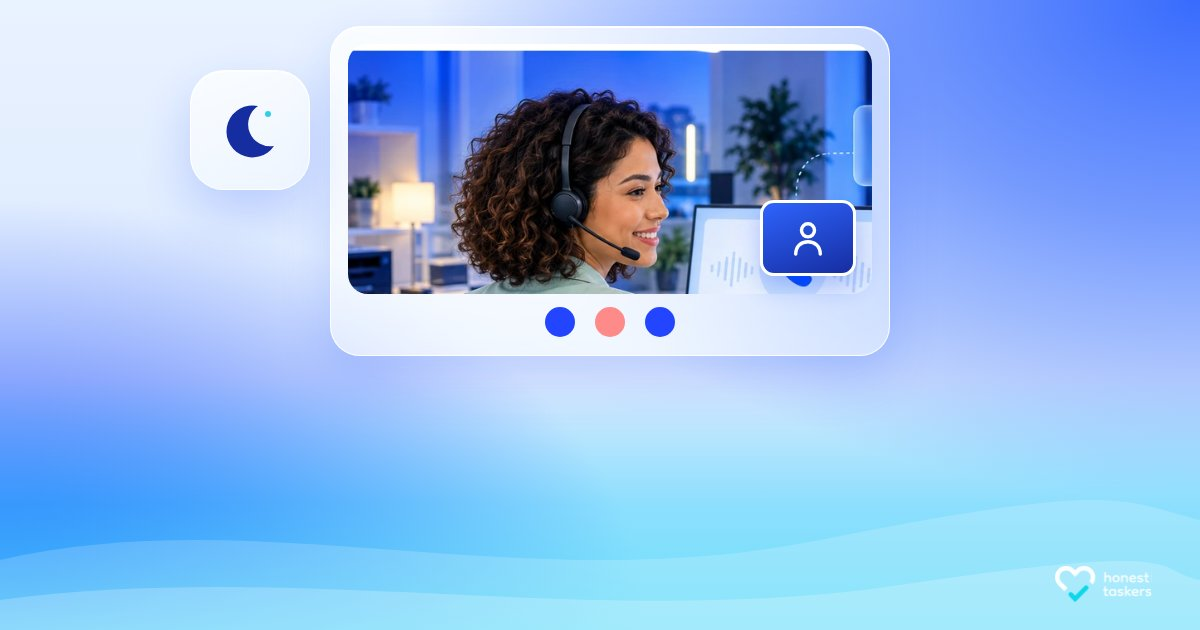
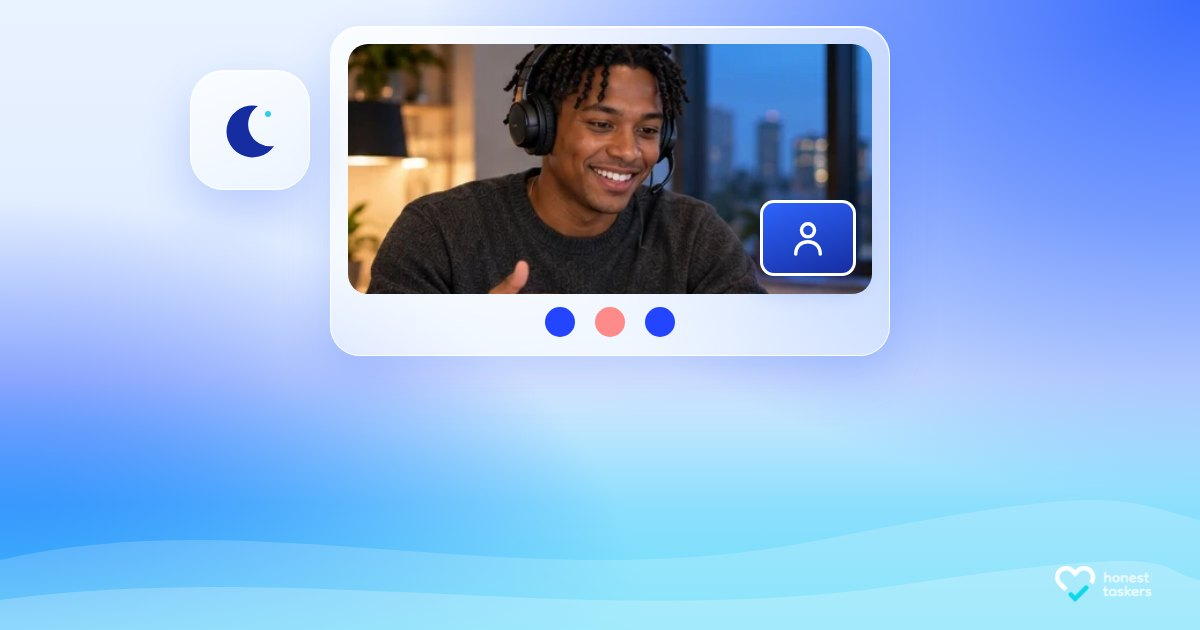
v8: 10 people covers with ChatGPT photos (5 young women, 5 young men, different races)
Claude-Session: https://claude.ai/code/session_01AHsVWFWnB54Ytwp6awPeMf

Changed region(s): [[0.2775, 0.0603, 0.74, 0.4825]]

diff --git a/blog-image-research/v8/templates/scenes-photo.js b/blog-image-research/v8/templates/scenes-photo.js
@@ -1,62 +1,63 @@
 // v8 photo scenes p01-p10: a real person in every cover, each with a different layout, on the shared v7 gradient + glass.
-// Photos here are STAND-INS from the current covers; swap the file names when the new, diverse people are generated.
+// People: young women and men of different races, generated in ChatGPT from PEOPLE-PROMPTS.md (cut from one collage).
+// Each person is placed in the layout that suits their photo's size and shape (wide shots full-bleed, tall shots in arch/phone).
 (() => {
 const S = window.SCENES;
-window.PHOTO_AR = { 'p01-dental': 1536 / 1024 };  // new 3:2 photos
+// [file, face focal [x%, y%], width, height]
 const F = {
-  dental: ['p01-dental', [46, 29]],
-  vet: ['7-best-virtual-medical-assistant-companies-for-specialty-veterinary-hospitals', [58, 20]],
-  internal: ['how-to-hire-an-internal-medicine-virtual-medical-assistant', [43, 25]],
-  afterhours: ['9-best-after-hours-medical-answering-service-companies', [30, 22]],
-  vetbill: ['veterinary-billing-virtual-assistant-interview-questions', [52, 22]],
-  answering: ['medical-answering-service-outsourcing-services', [43, 22]],
-  multi: ['in-house-staff-vs-virtual-team-for-multi-specialty-medical-groups-key-differences-and-which-to-choose', [55, 25]],
-  transcription: ['7-best-medical-transcription-outsourcing-companies', [73, 22]],
-  ortho: ['how-much-does-an-orthopedics-vma-cost', [70, 25]],
-  scribe: ['virtual-medical-scribe-vs-in-house-staff', [40, 28]],
+  ortho: ['p09-ortho', [56, 27], 264, 350],
+  internal: ['p03-internal', [41, 36], 507, 335],
+  vet: ['p02-vet', [55, 35], 762, 330],
+  afterhours: ['p04-afterhours', [47, 40], 520, 335],
+  vetbill: ['p05-vetbilling', [51, 29], 500, 335],
+  answering: ['p06-answering', [49, 33], 338, 350],
+  multi: ['p07-multi', [47, 27], 297, 350],
+  transcription: ['p08-transcription', [55, 27], 317, 350],
+  dental: ['p01-dental', [51, 39], 768, 330],
+  scribe: ['p10-scribe', [48, 29], 288, 350],
 };
+window.PHOTO_AR = Object.fromEntries(Object.values(F).map(([f, , w, h]) => [f, w / h]));
 const shadow = '0 26px 60px rgba(19,68,253,.28), 0 2px 8px rgba(19,68,253,.12)';
 
 // p01 Arch window: the person framed in a tall arch, specialty tiles stepping down beside it.
-S.p01 = { title: 'What Skills Does a Virtual Dental Assistant Need?', style: 'Arch window', draw({ photo, tile, svg }) {
+S.p01 = { title: 'How Much Does an Orthopedics VMA Cost?', style: 'Arch window', draw({ photo, tile, svg }) {
   svg(`<path d="M600 430 V170 A170 170 0 0 1 940 170 V430Z" fill="url(#gGhost)" transform="translate(30,-20)"/>`);
-  photo(F.dental[0], F.dental[1], 610, 24, 320, 400, 165, 150, 1.25, '160px 160px 28px 28px', { boxShadow: shadow, border: '6px solid rgba(255,255,255,.9)' });
-  tile('tooth', 470, 90, 120); tile('calendar', 380, 220, 104); tile('phone', 510, 300, 88);
+  photo(F.ortho[0], F.ortho[1], 610, 24, 320, 400, 160, 120, 1.05, '160px 160px 28px 28px', { boxShadow: shadow, border: '6px solid rgba(255,255,255,.9)' });
+  tile('spine', 470, 90, 120); tile('calendar', 380, 220, 104); tile('coin', 510, 300, 88);
 } };
 
-// p02 Circle portrait on an orbit: the person at the centre, the day's work orbiting.
-S.p02 = { title: '7 Best Virtual Medical Assistant Companies for Specialty Veterinary Hospitals', style: 'Orbit portrait', draw({ photo, tile, svg }) {
+// p02 Circle portrait on an orbit: the person at the centre, the work orbiting.
+S.p02 = { title: 'How to Hire an Internal Medicine Virtual Medical Assistant', style: 'Orbit portrait', draw({ photo, tile, svg }) {
   svg(`<ellipse cx="600" cy="190" rx="300" ry="150" fill="none" stroke="#fff" stroke-width="2" stroke-dasharray="4 10" opacity=".8"/>
        <ellipse cx="600" cy="190" rx="230" ry="200" fill="none" stroke="#fff" stroke-width="1.5" opacity=".35"/>`);
-  photo(F.vet[0], F.vet[1], 455, 45, 290, 290, 145, 115, 2.4, '50%', { boxShadow: shadow, border: '8px solid #fff' });
-  tile('paw', 320, 120, 110); tile('calendar', 880, 110, 96); tile('heart', 860, 290, 84); tile('rx', 345, 300, 80);
+  photo(F.internal[0], F.internal[1], 455, 45, 290, 290, 145, 130, 1.6, '50%', { boxShadow: shadow, border: '8px solid #fff' });
+  tile('stethoscope', 320, 120, 110); tile('calendar', 880, 110, 96); tile('heart', 860, 290, 84); tile('rx', 345, 300, 80);
 } };
 
 // p03 Your current look, kept: full-bleed person with see-through blue edges and frosted tiles (no checkmark).
-S.p03 = { title: 'How to Hire an Internal Medicine Virtual Medical Assistant', style: 'Current look, refined', bg: { waves: false }, draw({ photo, add, tile }) {
-  photo(F.internal[0], F.internal[1], 0, 0, 1200, 630, 520, 160, 1.55);
-  add('abs', { inset: 0, background: 'linear-gradient(90deg, rgba(19,68,253,.55) 0%, rgba(46,100,253,.15) 30%, rgba(46,100,253,0) 55%, rgba(46,100,253,.35) 80%, rgba(19,68,253,.7) 100%)' });
-  add('abs', { inset: 0, background: 'linear-gradient(0deg, rgba(85,224,250,.7) 0%, rgba(2,208,253,0) 35%)' });
-  tile('stethoscope', 860, 90, 112); tile('heart', 980, 230, 92); tile('calendar', 240, 120, 100);
+S.p03 = { title: '7 Best Virtual Medical Assistant Companies for Specialty Veterinary Hospitals', style: 'Current look, refined', bg: { waves: false }, draw({ photo, add, tile }) {
+  photo(F.vet[0], F.vet[1], 0, 0, 1200, 630, 700, 175, 1.15);
+  add('abs', { inset: 0, background: 'linear-gradient(90deg, rgba(19,68,253,.6) 0%, rgba(46,100,253,.2) 22%, rgba(46,100,253,0) 45%, rgba(46,100,253,0) 75%, rgba(19,68,253,.55) 100%)' });
+  add('abs', { inset: 0, background: 'linear-gradient(0deg, rgba(85,224,250,.75) 0%, rgba(2,208,253,0) 38%)' });
+  tile('paw', 220, 110, 108); tile('calendar', 1000, 100, 96); tile('heart', 980, 250, 84);
 } };
 
 // p04 Video call: the person inside a frosted call window, a moon tile for after hours.
 S.p04 = { title: '9 Best After-Hours Medical Answering Service Companies', style: 'Call window', draw({ glass, photo, svg, ico, add }) {
   glass(330, 26, 560, 330, 30);
-  photo(F.afterhours[0], F.afterhours[1], 348, 44, 524, 250, 262, 115, 1.9, 20);
+  photo(F.afterhours[0], F.afterhours[1], 348, 44, 524, 250, 262, 110, 1.15, 20);
   add('abs', { left: 760, top: 200, width: 96, height: 76, borderRadius: 14, background: 'linear-gradient(160deg,#2e64fd,#162da1)', border: '3px solid #fff', boxShadow: '0 10px 24px rgba(19,68,253,.3)' },
     `<div style="display:flex;align-items:center;justify-content:center;height:100%">${ico('person', 46, 9, '#fff', '#2dd0e8')}</div>`);
   svg(`${[0, 1, 2].map(i => `<circle cx="${560 + i * 50}" cy="322" r="15" fill="${i === 1 ? '#ff8a8a' : '#2345ff'}"/>`).join('')}`);
   glass(190, 70, 120, 120, 34, {}, `<svg width="64" height="64" viewBox="0 0 64 64"><path d="M40 8a26 26 0 1 0 16 40A22 22 0 0 1 40 8z" fill="#162da1"/><circle cx="50" cy="16" r="3" fill="#2dd0e8"/></svg>`);
 } };
 
-// p05 Polaroid: an instant photo pinned at an angle, with a billing note card under it.
-S.p05 = { title: 'Veterinary Billing Virtual Assistant Interview Questions', style: 'Polaroid', draw({ add, photo, glass, ico, svg }) {
-  const f = add('solid', { left: 400, top: 24, width: 320, height: 360, borderRadius: 10, transform: 'rotate(-5deg)', padding: 0 });
-  photo(F.vetbill[0], F.vetbill[1], 18, 18, 284, 262, 142, 105, 2.3, 4, {}).remove();
-  const p = document.createElement('div'); p.className = 'panel'; Object.assign(p.style, { left: '18px', top: '18px', width: '284px', height: '262px', borderRadius: '4px' }); f.appendChild(p);
-  const k = Math.max(284 / 1200, 262 / 630) * 2.3, iw = 1200 * k, ih = 630 * k; let l = 142 - .52 * iw, t = 100 - .22 * ih; l = Math.min(0, Math.max(284 - iw, l)); t = Math.min(0, Math.max(262 - ih, t));
-  p.innerHTML = `<img src="../photos/${F.vetbill[0]}.webp" style="position:absolute;width:${iw}px;height:${ih}px;left:${l}px;top:${t}px">`;
+// p05 Polaroid: an instant photo pinned at an angle, with a billing note card beside it.
+S.p05 = { title: 'Veterinary Billing Virtual Assistant Interview Questions', style: 'Polaroid', draw({ add, glass, ico }) {
+  const f = add('solid', { left: 400, top: 24, width: 320, height: 360, borderRadius: 10, transform: 'rotate(-5deg)' });
+  const [src, fc, w0, h0] = F.vetbill, w = 284, h = 262, k = Math.max(w / w0, h / h0) * 1.1, iw = w0 * k, ih = h0 * k;
+  let l = w / 2 - fc[0] / 100 * iw, t = 100 - fc[1] / 100 * ih; l = Math.min(0, Math.max(w - iw, l)); t = Math.min(0, Math.max(h - ih, t));
+  add('panel', { left: 18, top: 18, width: w, height: h, borderRadius: 4 }, `<img src="../photos/${src}.webp" style="position:absolute;width:${iw}px;height:${ih}px;left:${l}px;top:${t}px">`, f);
   add('abs', { left: 520, top: 8, width: 110, height: 32, background: 'rgba(169,210,247,.75)', transform: 'rotate(-8deg)', borderRadius: 4 });
   glass(740, 120, 230, 170, 26, { transform: 'rotate(4deg)' }, `<div>${ico('paw', 56, 9)}<div style="height:10px;width:130px;border-radius:5px;background:#2345ff;margin:14px 0 8px;opacity:.85"></div><div style="height:10px;width:90px;border-radius:5px;background:#2dd0e8"></div></div>`);
 } };
@@ -64,43 +65,43 @@ S.p05 = { title: 'Veterinary Billing Virtual Assistant Interview Questions', sty
 // p06 Phone screen: the person answering on a phone, with ringing arcs.
 S.p06 = { title: 'Medical Answering Service Outsourcing Services', style: 'Phone screen', draw({ add, photo, svg, tile }) {
   add('abs', { left: 485, top: 18, width: 230, height: 450, borderRadius: 40, background: '#0b1440', boxShadow: '0 30px 70px rgba(19,68,253,.35)' });
-  photo(F.answering[0], F.answering[1], 497, 30, 206, 426, 103, 120, 2.6, 30);
+  photo(F.answering[0], F.answering[1], 497, 30, 206, 426, 103, 150, 1.0, 30);
   add('abs', { left: 565, top: 40, width: 70, height: 18, borderRadius: 9, background: '#0b1440' });
-  svg(`${[60, 95, 130].map((r, i) => `<path d="M${730 + 10} ${170 - r} A ${r} ${r} 0 0 1 ${740} ${170 + r}" fill="none" stroke="#fff" stroke-width="5" stroke-linecap="round" opacity="${.85 - i * .25}" transform="translate(${r * .2},0)"/>`).join('')}
-       ${[60, 95, 130].map((r, i) => `<path d="M${460} ${170 - r} A ${r} ${r} 0 0 0 ${460} ${170 + r}" fill="none" stroke="#fff" stroke-width="5" stroke-linecap="round" opacity="${.85 - i * .25}" transform="translate(${-r * .2},0)"/>`).join('')}`);
+  svg(`${[60, 95, 130].map((r, i) => `<path d="M740 ${170 - r} A ${r} ${r} 0 0 1 740 ${170 + r}" fill="none" stroke="#fff" stroke-width="5" stroke-linecap="round" opacity="${.85 - i * .25}" transform="translate(${r * .2},0)"/>`).join('')}
+       ${[60, 95, 130].map((r, i) => `<path d="M460 ${170 - r} A ${r} ${r} 0 0 0 460 ${170 + r}" fill="none" stroke="#fff" stroke-width="5" stroke-linecap="round" opacity="${.85 - i * .25}" transform="translate(${-r * .2},0)"/>`).join('')}`);
   tile('phone', 260, 130, 110); tile('headset', 950, 150, 110);
 } };
 
-// p07 Diagonal split: photo cut on a slant at left, capsule bars and two tiles on the right.
-S.p07 = { title: 'In-House Staff vs. Virtual Team for Multi-Specialty Medical Groups: Key Differences and Which to Choose', style: 'Diagonal split', bg: { waves: true }, draw({ photo, capsules, tile }) {
-  photo(F.multi[0], F.multi[1], 0, 0, 700, 630, 390, 170, 1.5, 0, { clipPath: 'polygon(0 0, 100% 0, 72% 100%, 0 100%)' });
-  capsules(720, 70, 6, 40, 240, 16, [.45, .7, .55, .9, .75, 1]);
-  tile('clinic', 820, 120, 100); tile('people', 980, 250, 100);
+// p07 Slanted panel: the person in a tilted frame on the left, capsule bars and two tiles on the right.
+S.p07 = { title: 'In-House Staff vs. Virtual Team for Multi-Specialty Medical Groups: Key Differences and Which to Choose', style: 'Slanted panel', draw({ photo, capsules, tile }) {
+  photo(F.multi[0], F.multi[1], 250, 20, 400, 380, 200, 120, 1.0, 26, { clipPath: 'polygon(0 0, 100% 0, 82% 100%, 0 100%)', boxShadow: shadow });
+  capsules(650, 70, 6, 40, 240, 16, [.45, .7, .55, .9, .75, 1]);
+  tile('clinic', 760, 120, 100); tile('people', 930, 250, 100);
 } };
 
 // p08 Organic blob mask: the person in a soft blob, a frosted transcript turning sound into lines.
 S.p08 = { title: '7 Best Medical Transcription Outsourcing Companies', style: 'Blob portrait', draw({ photo, glass, svg }) {
-  photo(F.transcription[0], F.transcription[1], 620, 10, 420, 380, 210, 140, 2, 0,
-    { clipPath: 'path("M210 8 C 320 0, 410 70, 414 170 C 418 270, 350 372, 220 376 C 100 380, 10 310, 6 200 C 2 90, 100 16, 210 8 Z")' });
+  photo(F.transcription[0], F.transcription[1], 640, 10, 400, 380, 200, 140, 1.0, 0,
+    { clipPath: 'path("M200 8 C 305 0, 392 70, 396 170 C 400 270, 335 372, 210 376 C 95 380, 10 310, 6 200 C 2 90, 95 16, 200 8 Z")' });
   glass(210, 60, 380, 250, 28);
   svg(`${Array.from({ length: 22 }, (_, i) => { const h = 14 + 56 * Math.abs(Math.sin(i * .7)); return `<rect x="${240 + i * 9}" y="${120 - h / 2}" width="5" height="${h}" rx="2.5" fill="#2345ff" opacity=".85"/>`; }).join('')}
        <path d="M450 120 h40 M480 108 l12 12 -12 12" stroke="#2dd0e8" stroke-width="5" fill="none" stroke-linecap="round"/>
-       ${[0, 1, 2, 3].map(i => `<rect x="${240}" y="${190 + i * 26}" width="${[300, 260, 280, 180][i]}" height="10" rx="5" fill="${i === 3 ? '#2dd0e8' : '#0b1440'}" opacity="${i === 3 ? 1 : .75}"/>`).join('')}`);
+       ${[0, 1, 2, 3].map(i => `<rect x="240" y="${190 + i * 26}" width="${[300, 260, 280, 180][i]}" height="10" rx="5" fill="${i === 3 ? '#2dd0e8' : '#0b1440'}" opacity="${i === 3 ? 1 : .75}"/>`).join('')}`);
 } };
 
-// p09 Blue duotone: the whole photo toned into brand blue, one solid white tile on top.
-S.p09 = { title: 'How Much Does an Orthopedics VMA Cost?', style: 'Duotone', bg: { waves: false }, draw({ photo, add, solid, ico, svg }) {
-  photo(F.ortho[0], F.ortho[1], 0, 0, 1200, 630, 760, 160, 1.6, 0, { filter: 'grayscale(1) contrast(1.1) brightness(1.05)' });
+// p09 Blue duotone: the whole photo toned into brand blue, solid white tiles on top.
+S.p09 = { title: 'What Skills Does a Virtual Dental Assistant Need?', style: 'Duotone', bg: { waves: false }, draw({ photo, add, solid, ico }) {
+  photo(F.dental[0], F.dental[1], 0, 0, 1200, 630, 760, 200, 1.0, 0, { filter: 'grayscale(1) contrast(1.1) brightness(1.08)' });
   add('abs', { inset: 0, background: 'linear-gradient(115deg, rgba(19,68,253,.92) 0%, rgba(46,100,253,.7) 45%, rgba(2,208,253,.35) 100%)', mixBlendMode: 'multiply' });
   add('abs', { inset: 0, background: 'linear-gradient(0deg, rgba(85,224,250,.55) 0%, rgba(2,208,253,0) 30%)' });
-  solid(220, 90, 190, 190, 48, {}, ico('spine', 110, 8));
-  solid(420, 210, 110, 110, 32, {}, ico('coin', 62, 9));
+  solid(200, 80, 190, 190, 48, {}, ico('tooth', 110, 8));
+  solid(400, 200, 110, 110, 32, {}, ico('calendar', 62, 9));
 } };
 
 // p10 Side-by-side cards: the virtual scribe (in colour) next to an empty in-house desk (muted), swap badge between.
-S.p10 = { title: 'Virtual Medical Scribe vs In-House Staff', style: 'Side-by-side cards', draw({ photo, glass, add, ico, svg }) {
+S.p10 = { title: 'Virtual Medical Scribe vs In-House Staff', style: 'Side-by-side cards', draw({ photo, glass, add, ico }) {
   glass(210, 40, 360, 300, 28, { filter: 'saturate(.3)' }, `<div style="text-align:center;opacity:.6">${ico('clinic', 120, 7, '#7a819f', '#9aa3c4')}<div style="margin:16px auto 0;height:10px;width:160px;border-radius:5px;background:#c3c9de"></div></div>`);
-  photo(F.scribe[0], F.scribe[1], 630, 40, 360, 300, 180, 110, 2.1, 28, { boxShadow: shadow, border: '5px solid #fff' });
+  photo(F.scribe[0], F.scribe[1], 630, 40, 360, 300, 180, 110, 1.0, 28, { boxShadow: shadow, border: '5px solid #fff' });
   add('abs', { left: 568, top: 158, width: 64, height: 64, borderRadius: '50%', background: '#2dd0e8', border: '6px solid #fff', boxShadow: shadow },
     `<svg width="52" height="52" viewBox="0 0 52 52"><path d="M14 20 h22 l-6 -6 M38 32 h-22 l6 6" stroke="#0b1440" stroke-width="4" fill="none" stroke-linecap="round" stroke-linejoin="round"/></svg>`);
 } };

diff --git a/blog-image-research/v8/page/index.html b/blog-image-research/v8/page/index.html
@@ -36,12 +36,12 @@ th { font:500 .74rem var(--mono); text-transform:uppercase; letter-spacing:.06em
 @media (max-width:760px) { .how { grid-template-columns:1fr; } }
 </style>
 <div class="wrap">
-<div class="eyebrow">Cover designs · v8 · preview</div>
-<h1>10 photo covers with real people: layout preview</h1>
-<p class="lede">These are the 10 layouts for the people covers. Each has a different frame: arch window, orbit portrait, your current full-photo look, video call, polaroid, phone screen, diagonal split, blob portrait, blue duotone, side-by-side cards. All use the same see-through gradient and frosted glass as the 72 word-free covers, and none has words on it.</p>
-<p class="lede"><b>P01 now uses the first new photo</b> (made with ChatGPT from the prompts). <b>The other nine people are still stand-ins</b> from your current images. They show why new photos are needed: they look alike, and some still carry the old floating tiles (most visible in P03 and P09). After you share your Figma plan key, I'll generate 10 new, clearly different people and drop them into these exact layouts.</p>
-<div class="grid3"><figure><img src="a/p01.jpg" alt="What Skills Does a Virtual Dental Assistant Need?" loading="lazy"><figcaption><span class="n">P01 · Arch window</span><b>What Skills Does a Virtual Dental Assistant Need?</b></figcaption></figure><figure><img src="a/p02.jpg" alt="7 Best Virtual Medical Assistant Companies for Specialty Veterinary Hospitals" loading="lazy"><figcaption><span class="n">P02 · Orbit portrait</span><b>7 Best Virtual Medical Assistant Companies for Specialty Veterinary Hospitals</b></figcaption></figure><figure><img src="a/p03.jpg" alt="How to Hire an Internal Medicine Virtual Medical Assistant" loading="lazy"><figcaption><span class="n">P03 · Current look, refined</span><b>How to Hire an Internal Medicine Virtual Medical Assistant</b></figcaption></figure><figure><img src="a/p04.jpg" alt="9 Best After-Hours Medical Answering Service Companies" loading="lazy"><figcaption><span class="n">P04 · Call window</span><b>9 Best After-Hours Medical Answering Service Companies</b></figcaption></figure><figure><img src="a/p05.jpg" alt="Veterinary Billing Virtual Assistant Interview Questions" loading="lazy"><figcaption><span class="n">P05 · Polaroid</span><b>Veterinary Billing Virtual Assistant Interview Questions</b></figcaption></figure><figure><img src="a/p06.jpg" alt="Medical Answering Service Outsourcing Services" loading="lazy"><figcaption><span class="n">P06 · Phone screen</span><b>Medical Answering Service Outsourcing Services</b></figcaption></figure><figure><img src="a/p07.jpg" alt="In-House Staff vs. Virtual Team for Multi-Specialty Medical Groups: Key Differences and Which to Choose" loading="lazy"><figcaption><span class="n">P07 · Diagonal split</span><b>In-House Staff vs. Virtual Team for Multi-Specialty Medical Groups: Key Differences and Which to Choose</b></figcaption></figure><figure><img src="a/p08.jpg" alt="7 Best Medical Transcription Outsourcing Companies" loading="lazy"><figcaption><span class="n">P08 · Blob portrait</span><b>7 Best Medical Transcription Outsourcing Companies</b></figcaption></figure><figure><img src="a/p09.jpg" alt="How Much Does an Orthopedics VMA Cost?" loading="lazy"><figcaption><span class="n">P09 · Duotone</span><b>How Much Does an Orthopedics VMA Cost?</b></figcaption></figure><figure><img src="a/p10.jpg" alt="Virtual Medical Scribe vs In-House Staff" loading="lazy"><figcaption><span class="n">P10 · Side-by-side cards</span><b>Virtual Medical Scribe vs In-House Staff</b></figcaption></figure></div>
-<h2>Who goes in when we generate</h2>
-<ol><li>Nigerian woman, braided updo, scrubs</li><li>Filipino man, short undercut, home office</li><li>Indian woman, long braid, clinic desk</li><li>Somali woman in a hijab, care coordination</li><li>Irish woman, curly red hair, freckles, vet clinic</li><li>Korean man, glasses, side part, billing</li><li>Mexican woman, about 55, grey-streaked bob, dental office</li><li>Black American man, about 45, shaved head and beard, telehealth</li><li>Brazilian woman, natural curls, therapy practice</li><li>Vietnamese woman, pixie cut, scheduling on two monitors</li></ol>
-<p class="lede">The photos will be realistic and natural: no floating UI tiles, no checkmarks, and room left for the glass elements. The plan key looks like <code>team::1234567890</code> or <code>organization::1234567890</code>; the number is in the address bar when you open your team or organization in Figma.</p>
+<div class="eyebrow">Cover designs · v8 · people covers</div>
+<h1>10 photo covers, 10 different people</h1>
+<p class="lede">Five young women and five young men of different races and hair types, generated in ChatGPT from the prompts and placed into 10 different layouts. All use the same see-through gradient and frosted glass as the 72 word-free covers. No words, no checkmarks, no old floating tiles.</p>
+<div class="grid3"><figure><img src="a/p01.jpg" alt="How Much Does an Orthopedics VMA Cost?" loading="lazy"><figcaption><span class="n">P01 · Arch window</span><b>How Much Does an Orthopedics VMA Cost?</b><span>Indian woman, long dark hair</span></figcaption></figure><figure><img src="a/p02.jpg" alt="How to Hire an Internal Medicine Virtual Medical Assistant" loading="lazy"><figcaption><span class="n">P02 · Orbit portrait</span><b>How to Hire an Internal Medicine Virtual Medical Assistant</b><span>Nigerian woman, braids in a high bun, scrubs</span></figcaption></figure><figure><img src="a/p03.jpg" alt="7 Best Virtual Medical Assistant Companies for Specialty Veterinary Hospitals" loading="lazy"><figcaption><span class="n">P03 · Current look, refined</span><b>7 Best Virtual Medical Assistant Companies for Specialty Veterinary Hospitals</b><span>Irish woman, curly copper-red hair, with a golden retriever</span></figcaption></figure><figure><img src="a/p04.jpg" alt="9 Best After-Hours Medical Answering Service Companies" loading="lazy"><figcaption><span class="n">P04 · Call window</span><b>9 Best After-Hours Medical Answering Service Companies</b><span>Black American man, short twists, evening home office</span></figcaption></figure><figure><img src="a/p05.jpg" alt="Veterinary Billing Virtual Assistant Interview Questions" loading="lazy"><figcaption><span class="n">P05 · Polaroid</span><b>Veterinary Billing Virtual Assistant Interview Questions</b><span>Filipino man, undercut</span></figcaption></figure><figure><img src="a/p06.jpg" alt="Medical Answering Service Outsourcing Services" loading="lazy"><figcaption><span class="n">P06 · Phone screen</span><b>Medical Answering Service Outsourcing Services</b><span>Somali woman, light-blue hijab</span></figcaption></figure><figure><img src="a/p07.jpg" alt="In-House Staff vs. Virtual Team for Multi-Specialty Medical Groups: Key Differences and Which to Choose" loading="lazy"><figcaption><span class="n">P07 · Slanted panel</span><b>In-House Staff vs. Virtual Team for Multi-Specialty Medical Groups: Key Differences and Which to Choose</b><span>Korean man, round glasses</span></figcaption></figure><figure><img src="a/p08.jpg" alt="7 Best Medical Transcription Outsourcing Companies" loading="lazy"><figcaption><span class="n">P08 · Blob portrait</span><b>7 Best Medical Transcription Outsourcing Companies</b><span>Vietnamese woman, pixie cut</span></figcaption></figure><figure><img src="a/p09.jpg" alt="What Skills Does a Virtual Dental Assistant Need?" loading="lazy"><figcaption><span class="n">P09 · Duotone</span><b>What Skills Does a Virtual Dental Assistant Need?</b><span>Mexican woman, long dark waves (blue-toned)</span></figcaption></figure><figure><img src="a/p10.jpg" alt="Virtual Medical Scribe vs In-House Staff" loading="lazy"><figcaption><span class="n">P10 · Side-by-side cards</span><b>Virtual Medical Scribe vs In-House Staff</b><span>young man, curly brown hair, scrubs</span></figcaption></figure></div>
+<h2>The source photos</h2>
+<p class="lede">ChatGPT returned all ten as one collage. I cut it into ten photos and matched each to a layout that suits its size: the two widest shots run full-width (P03, P09), and the tall ones sit in the arch (P01) and the phone (P06).</p>
+<img src="a/collage.jpg" alt="ChatGPT collage of ten people" style="width:100%;border-radius:12px;border:1px solid var(--line);margin-top:12px">
+<p class="lede">Note: cut from one collage, each photo is small (about 260–770 px wide). They look fine in the framed layouts, but the full-width covers (P03, P09) are a little soft. For final use, regenerate those two people as single, full-size images.</p>
 </div>
